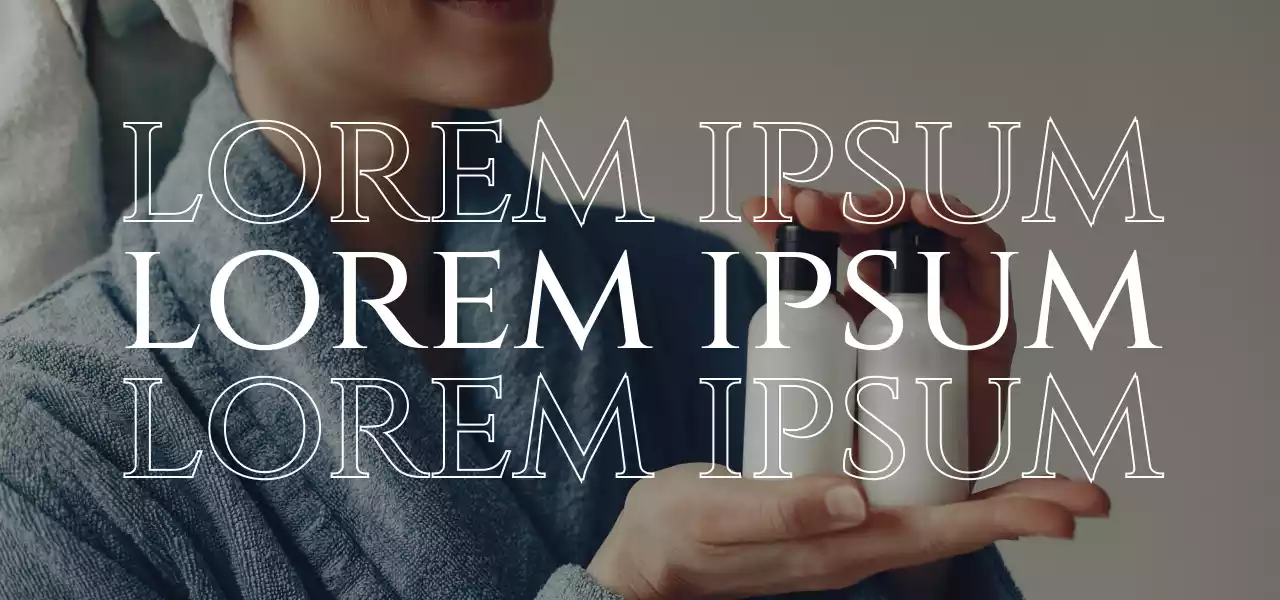
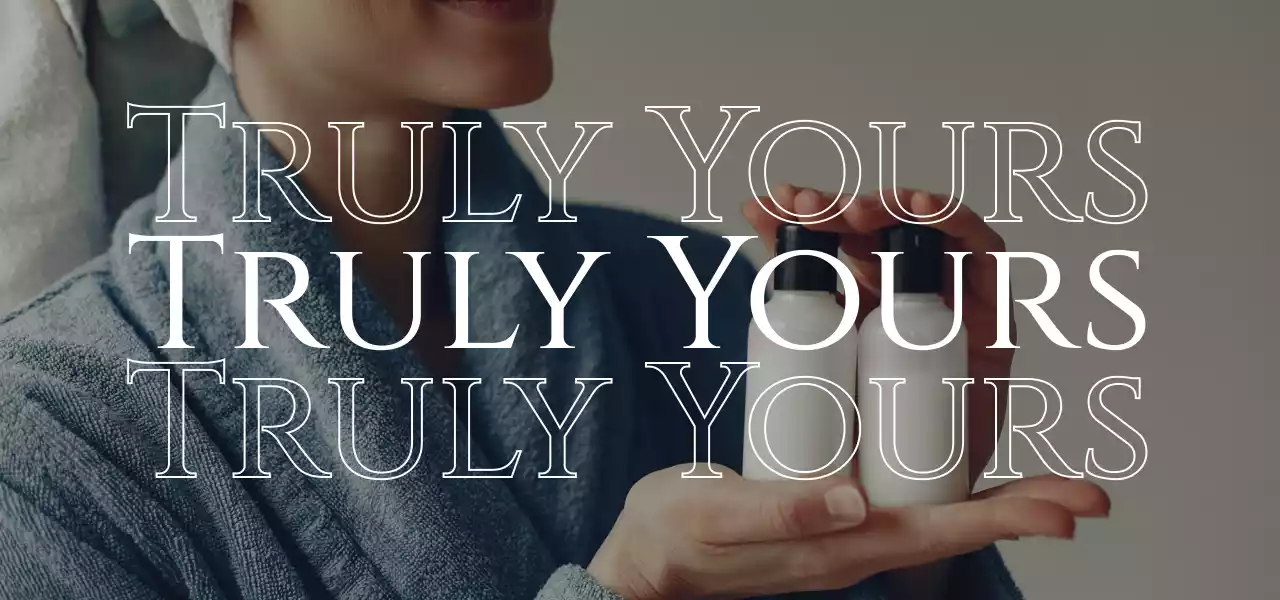
tag change

Changed region(s): [[0.0938, 0.15, 0.9062, 0.81]]

diff --git a/src/pages/Home/Hero.jsx b/src/pages/Home/Hero.jsx
@@ -25,7 +25,7 @@ const Hero = () => {
           transition={{ duration: 0.5, delay: 0.2 }}
           className="text-6xl sm:text-7xl lg:text-[160px] md:text-[120px] text-center text-[#C49E5F] lg:tracking-wider relative z-10 top-3 cinzel-font lg:top-4"
         >
-          Lorem Ipsum
+          Truly Yours
         </motion.h1>
 
         <div className="relative top-8 lg:-top-12">
